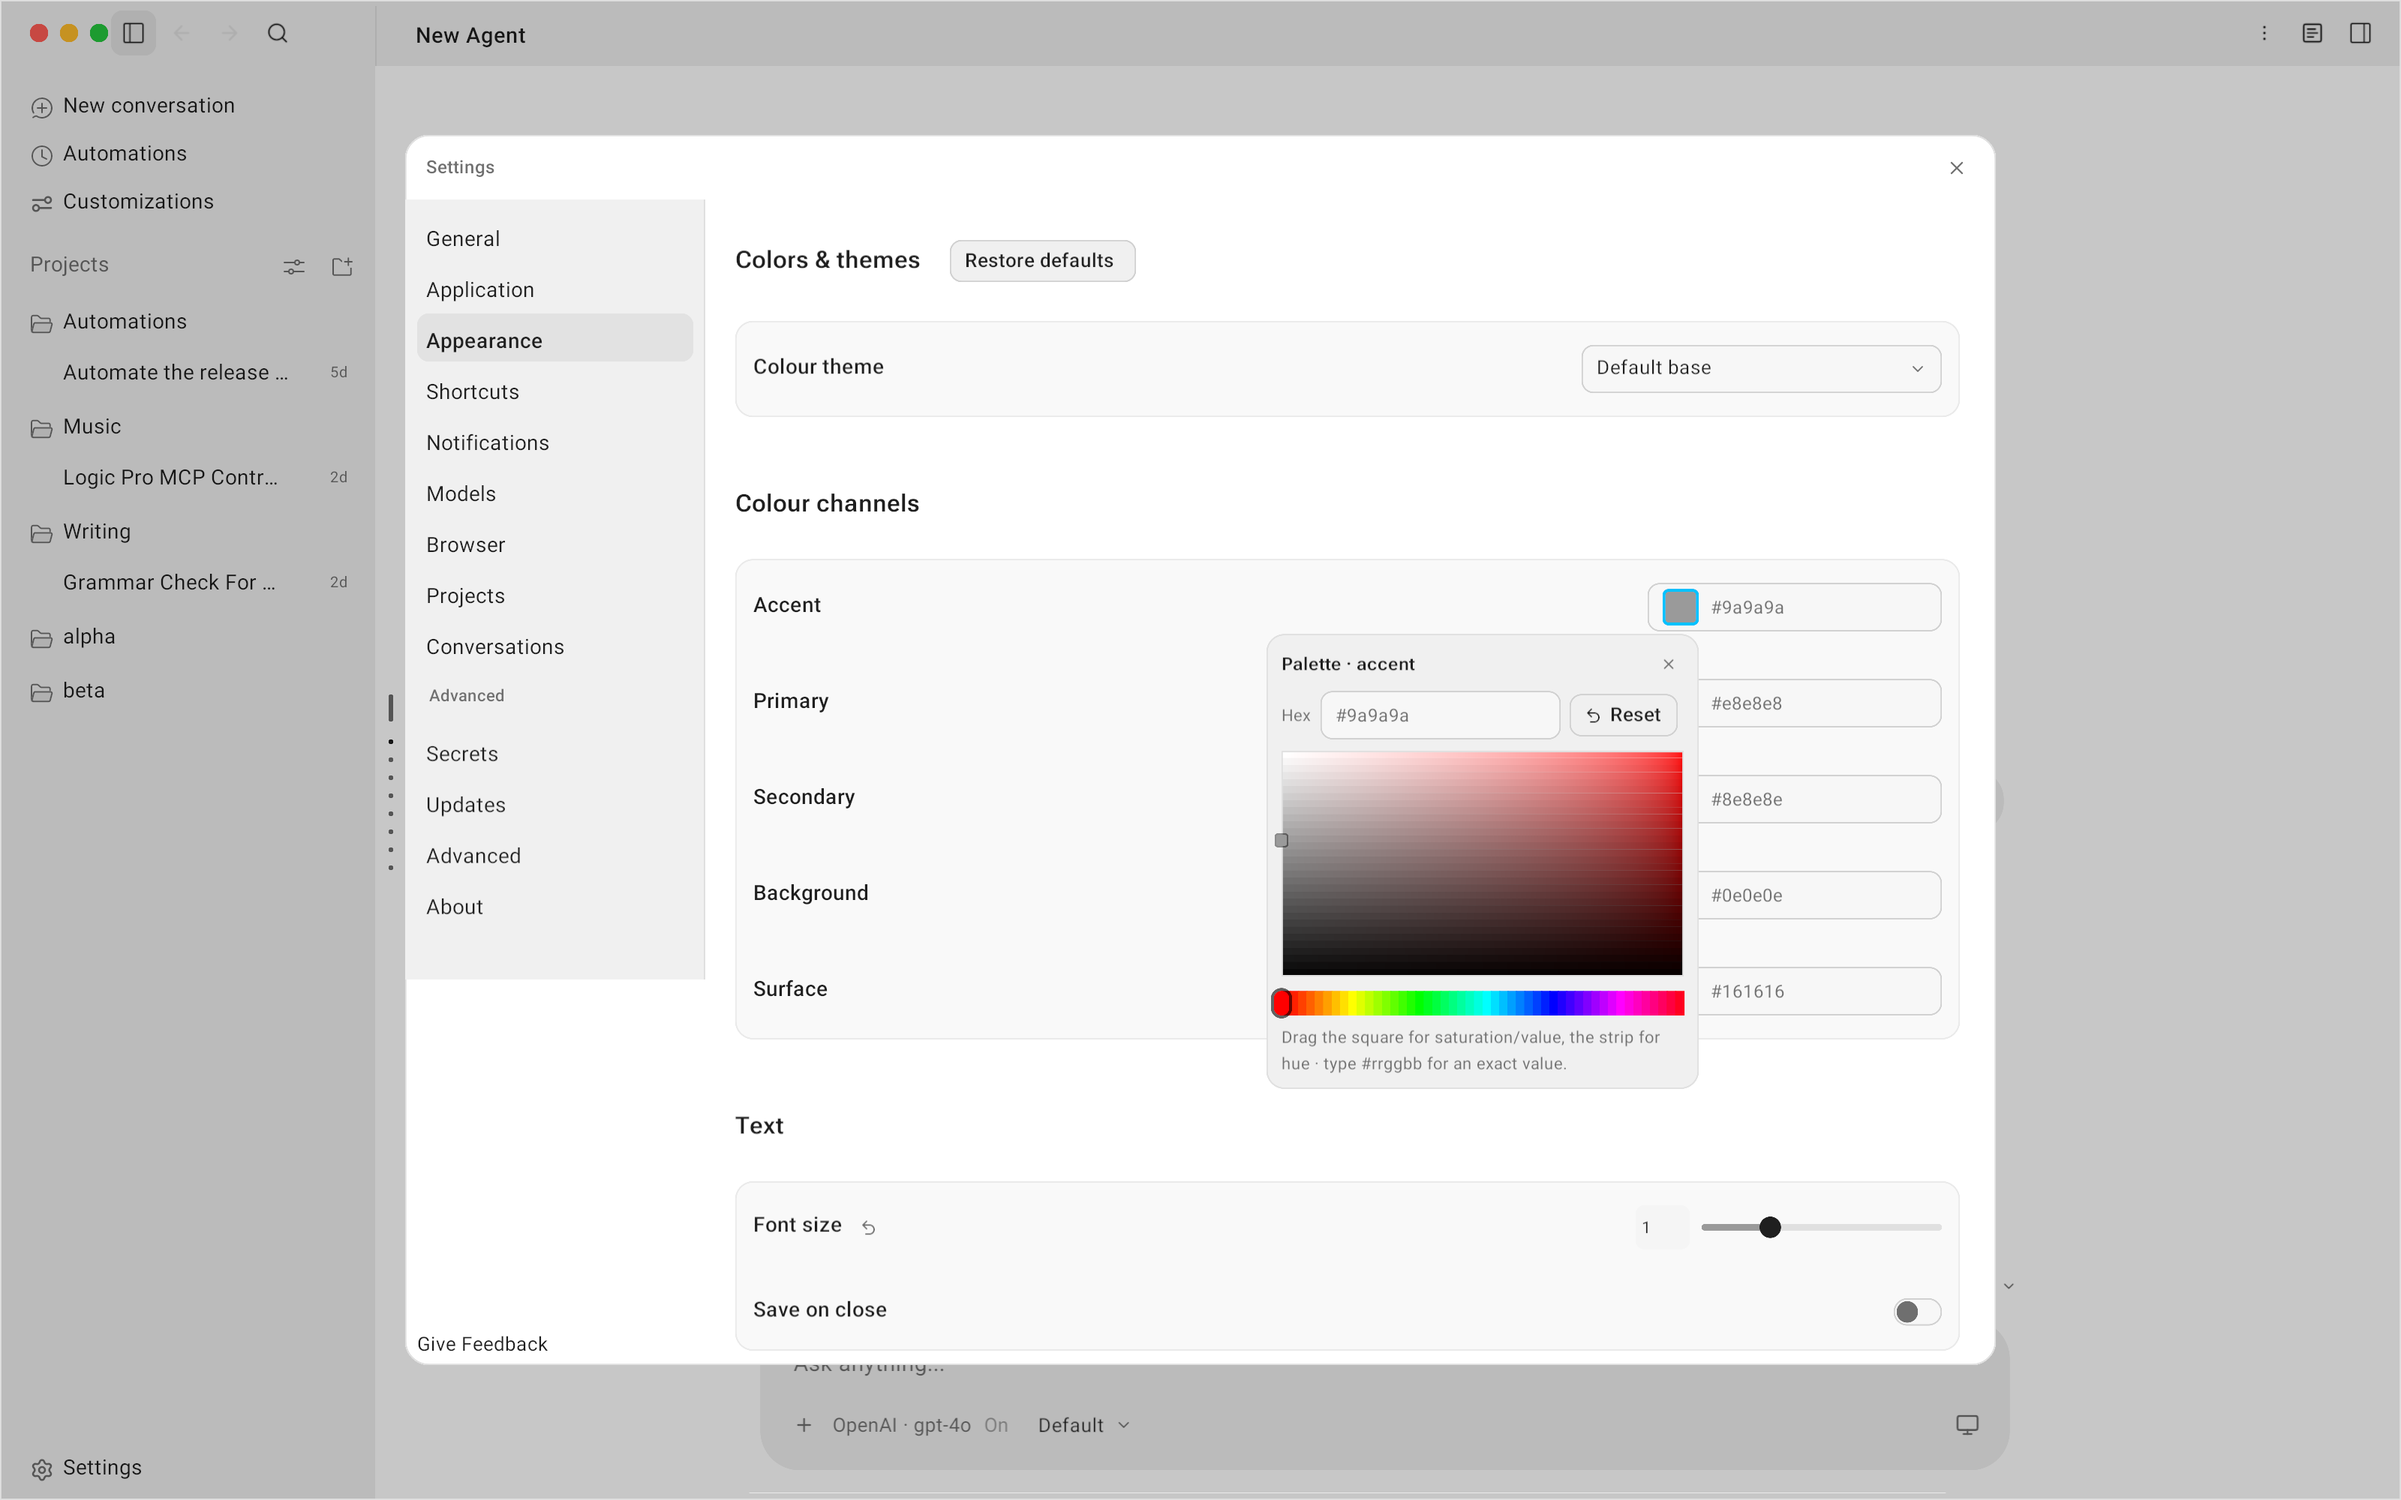
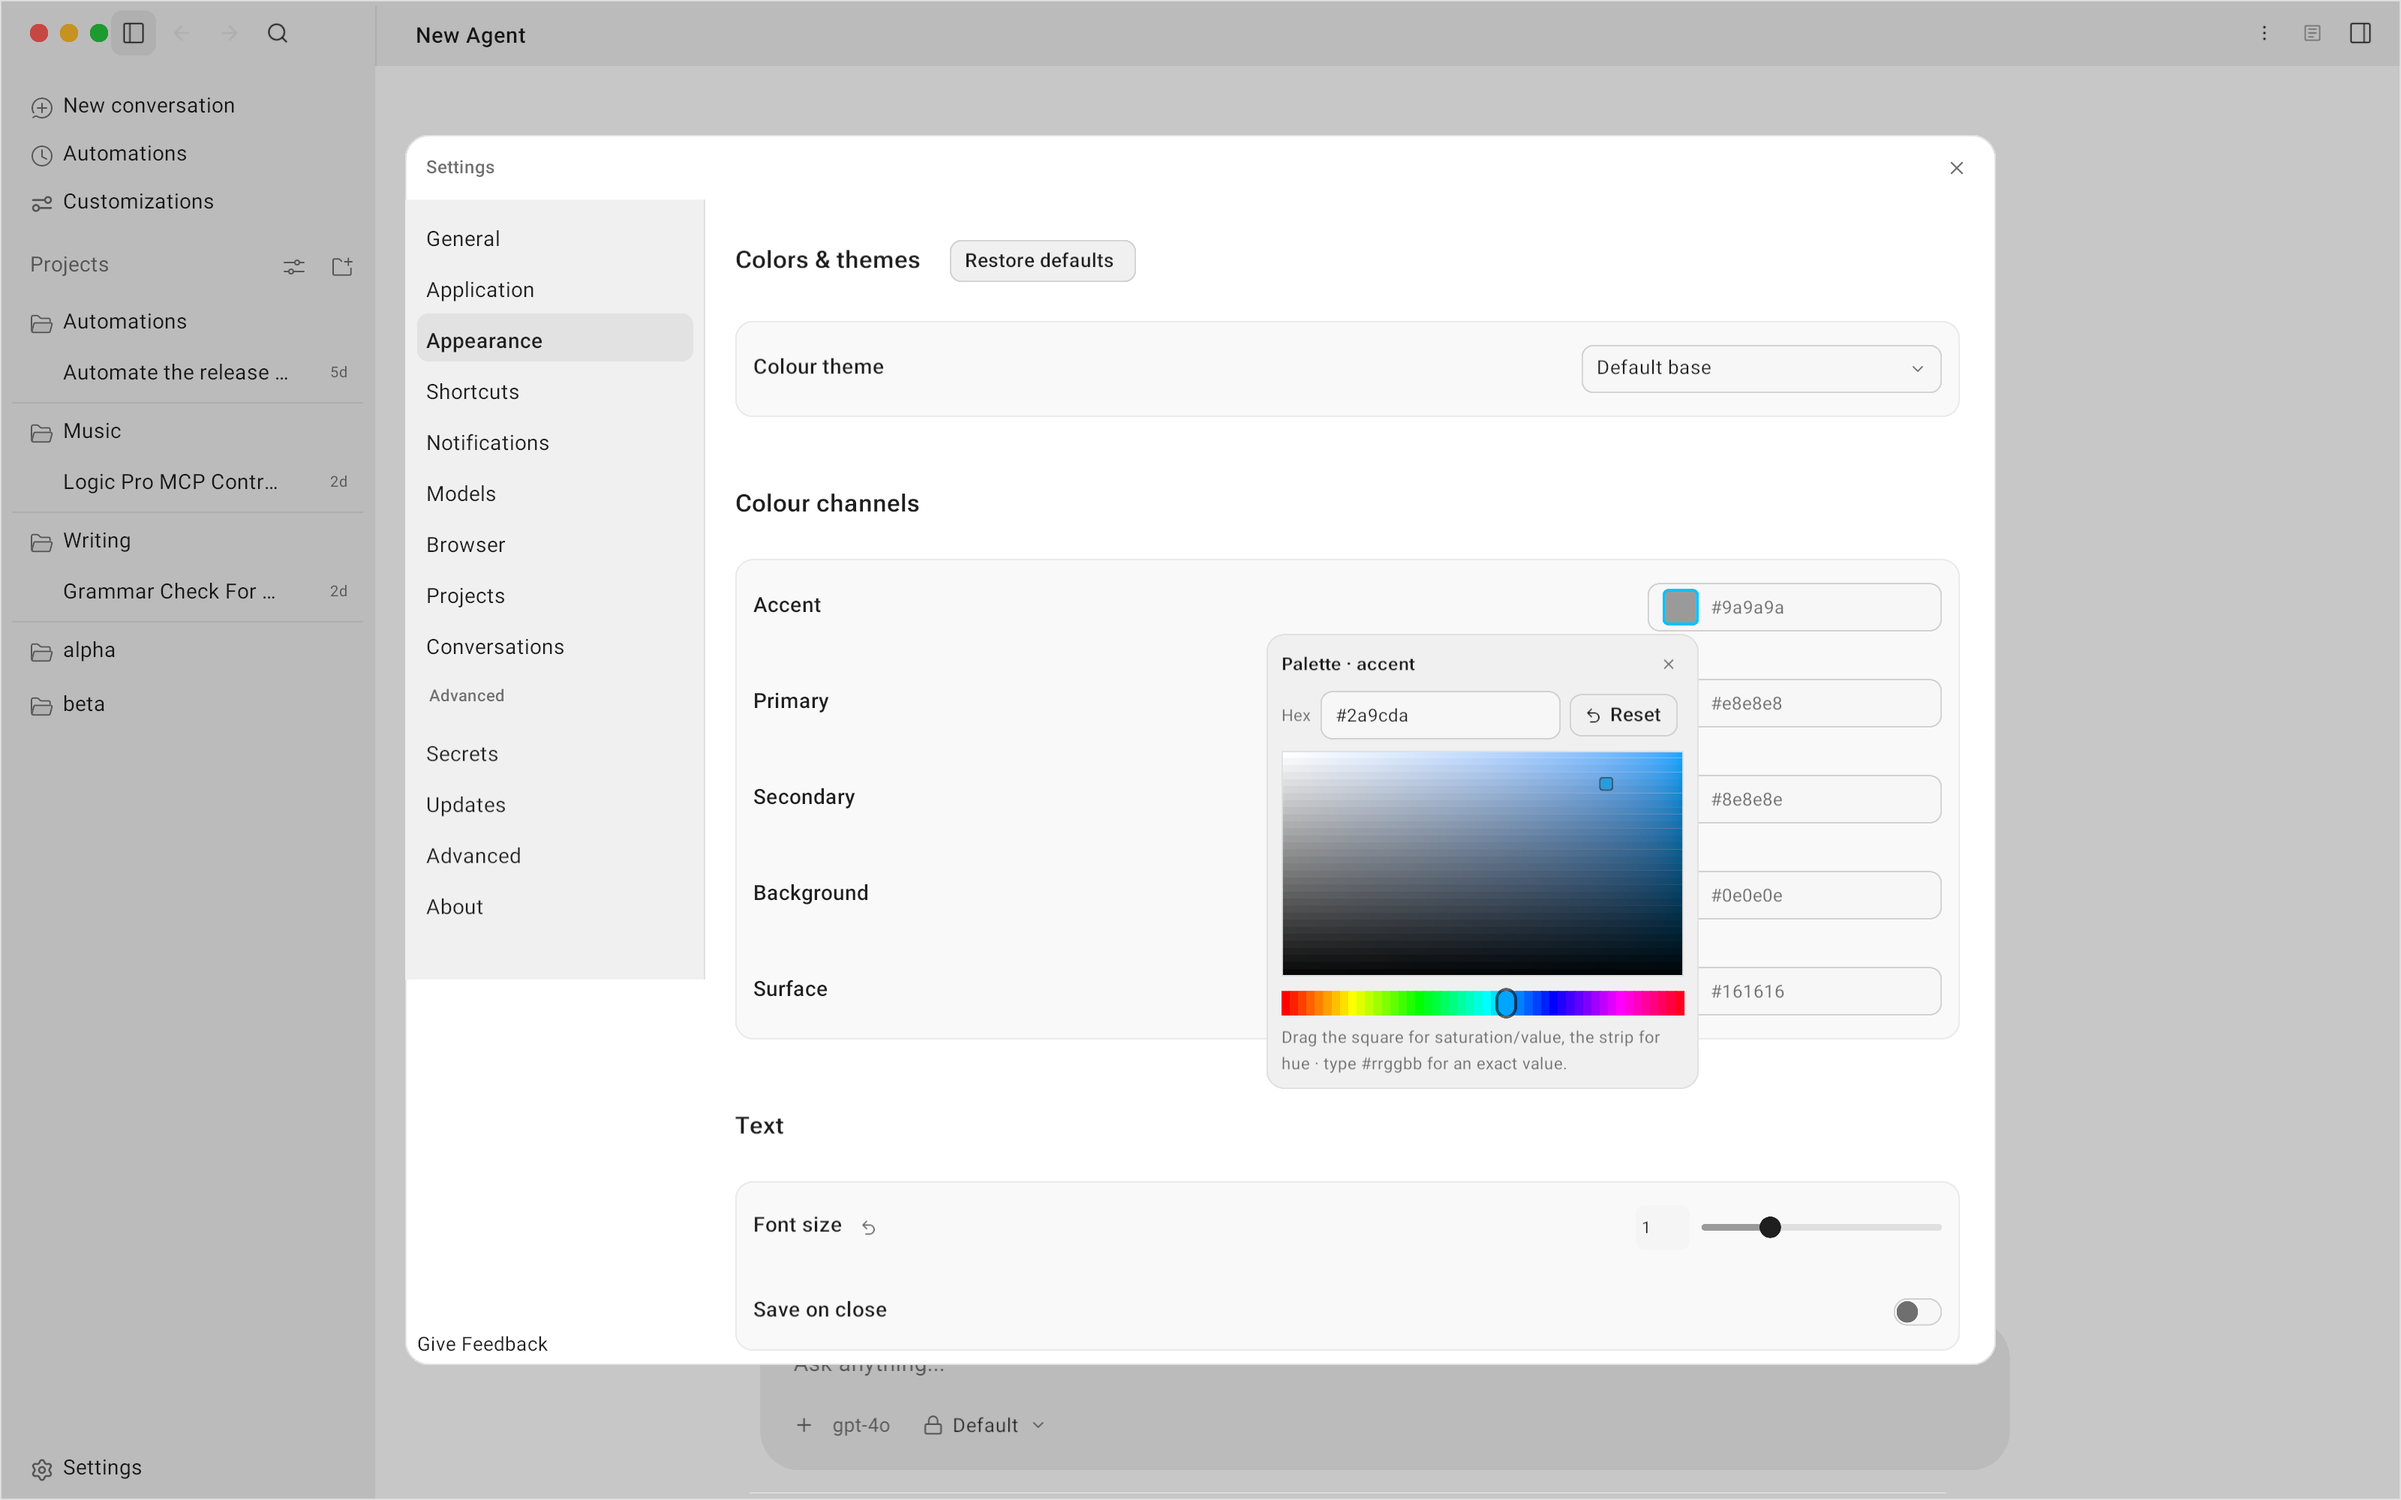
fix(settings): palette drag previews in memory and commits once on release
521 — HsvBarPicker now separates preview from commit: MouseDown/Move report an
in-memory preview (a SettingsAction that never writes settings or reloads
config), and MouseUp fires exactly one SetText commit. The hex field and the
picker knob show the live preview but the settings file is untouched until
release, so dragging for seconds cannot block on disk/theme reload.

522 — the continuous saturation/value square + hue strip stays the control
(no per-colour chips/bordered swatches); the live mid-drag render now shows the
preview colour.

523 — regression test: N drag steps produce previews, zero commits before
release, and one commit on MouseUp. Refreshed dark/light mid-drag palette
previews.

Tests: goble-ui 974 passed / 0 failed; goble-app 925 passed / 8 documented
baseline failures / 0 ignored.

Changed region(s): [[0.5625, 0.496, 0.7188, 0.651], [0.0, 0.31, 0.0938, 0.403], [0.3438, 0.93, 0.4375, 0.961]]

diff --git a/apps/desktop/src/ui/color_picker.rs b/apps/desktop/src/ui/color_picker.rs
@@ -384,6 +384,9 @@ impl Element for ColorWheel {
 pub struct HsvBarPicker {
     color: ColorU,
     on_change: ColorHandler,
+    on_preview: ColorHandler,
+    on_commit: ColorHandler,
+    last_color: Option<ColorU>,
     drag: Rc<RefCell<Option<ColorPickerDrag>>>,
     size: Option<Vector2F>,
     origin: Option<Point>,
@@ -396,6 +399,9 @@ impl HsvBarPicker {
         Self {
             color,
             on_change: None,
+            on_preview: None,
+            on_commit: None,
+            last_color: None,
             drag: Rc::new(RefCell::new(None)),
             size: None,
             origin: None,
@@ -412,6 +418,26 @@ impl HsvBarPicker {
     pub fn with_on_change<F: FnMut(ColorU) + 'static>(mut self, callback: F) -> Self {
         self.on_change = Some(Rc::new(RefCell::new(callback)));
         self
+    }
+
+    /// 521: an in-memory preview for each drag step.
+    pub fn with_on_preview<F: FnMut(ColorU) + 'static>(mut self, callback: F) -> Self {
+        self.on_preview = Some(Rc::new(RefCell::new(callback)));
+        self
+    }
+
+    /// The single commit fired on release.
+    pub fn with_on_commit<F: FnMut(ColorU) + 'static>(mut self, callback: F) -> Self {
+        self.on_commit = Some(Rc::new(RefCell::new(callback)));
+        self
+    }
+
+    fn report(&mut self, color: ColorU) {
+        self.last_color = Some(color);
+        let callback = self.on_preview.as_ref().or(self.on_change.as_ref());
+        if let Some(cb) = callback {
+            (cb.borrow_mut())(color);
+        }
     }
 
     fn hsv(&self) -> (f32, f32, f32) {
@@ -547,9 +573,7 @@ impl Element for HsvBarPicker {
                         *dragging.borrow_mut() = Some(ColorPickerDrag {
                             region: ColorRegion::Sv,
                         });
-                        if let Some(cb) = &self.on_change {
-                            (cb.borrow_mut())(self.color_at_sv(r, *position));
-                        }
+                        self.report(self.color_at_sv(r, *position));
                         return true;
                     }
                 }
@@ -558,9 +582,7 @@ impl Element for HsvBarPicker {
                         *dragging.borrow_mut() = Some(ColorPickerDrag {
                             region: ColorRegion::Hue,
                         });
-                        if let Some(cb) = &self.on_change {
-                            (cb.borrow_mut())(self.color_at_hue(r, *position));
-                        }
+                        self.report(self.color_at_hue(r, *position));
                         return true;
                     }
                 }
@@ -576,15 +598,22 @@ impl Element for HsvBarPicker {
                     ColorRegion::Ring => self.abs_sv().map(|r| self.color_at_sv(r, *position)),
                 };
                 if let Some(color) = color {
-                    if let Some(cb) = &self.on_change {
-                        (cb.borrow_mut())(color);
-                    }
+                    self.report(color);
                     true
                 } else {
                     false
                 }
             }
-            DispatchedEvent::MouseUp { .. } => dragging.borrow_mut().take().is_some(),
+            DispatchedEvent::MouseUp { .. } => {
+                if dragging.borrow_mut().take().is_some() {
+                    if let (Some(color), Some(cb)) = (self.last_color, self.on_commit.as_ref()) {
+                        (cb.borrow_mut())(color);
+                    }
+                    self.last_color = None;
+                    return true;
+                }
+                false
+            }
             _ => false,
         }
     }
@@ -607,6 +636,55 @@ mod tests {
 
     fn wheel_box(color: ColorU) -> Box<dyn Element> {
         ColorWheel::new(color).finish()
+    }
+
+    /// 521: every drag step previews in memory; exactly one commit fires on
+    /// release, so no settings write can happen per pixel.
+    #[test]
+    fn the_hsv_picker_previews_each_step_and_commits_once_on_release() {
+        use goble_ui::elements::EventContext;
+        use goble_ui::event::DispatchedEvent;
+        use goble_ui::test_util::render_element;
+        let app = AppContext::default();
+        let previews = Rc::new(RefCell::new(0usize));
+        let commits = Rc::new(RefCell::new(0usize));
+        let p = previews.clone();
+        let c = commits.clone();
+        let mut picker: Box<dyn Element> = Box::new(
+            HsvBarPicker::new(ColorU::new(128, 128, 128, 255))
+                .with_on_preview(move |_| *p.borrow_mut() += 1)
+                .with_on_commit(move |_| *c.borrow_mut() += 1),
+        );
+        let _ = render_element(&mut picker, vec2f(300.0, 220.0), &app);
+        let mut ctx = EventContext::default();
+        picker.dispatch_event(
+            &DispatchedEvent::MouseDown {
+                position: vec2f(40.0, 40.0),
+                button: 0,
+            },
+            &mut ctx,
+            &app,
+        );
+        for x in [60.0, 90.0, 120.0] {
+            picker.dispatch_event(
+                &DispatchedEvent::MouseMove {
+                    position: vec2f(x, 60.0),
+                },
+                &mut ctx,
+                &app,
+            );
+        }
+        assert!(*previews.borrow() >= 4, "each step previews in memory");
+        assert_eq!(*commits.borrow(), 0, "nothing is committed mid-drag");
+        picker.dispatch_event(
+            &DispatchedEvent::MouseUp {
+                position: vec2f(120.0, 60.0),
+                button: 0,
+            },
+            &mut ctx,
+            &app,
+        );
+        assert_eq!(*commits.borrow(), 1, "release commits once");
     }
 
     /// 362: the square and the hue strip are both live drag targets.

diff --git a/apps/desktop/src/ui/settings/color_palette.rs b/apps/desktop/src/ui/settings/color_palette.rs
@@ -1573,8 +1573,13 @@ fn palette_panel(
     let submit_actions = actions.clone();
     let focus_id = hex_focus_draft(channel);
     let focus_dispatch = actions.dispatch.clone();
+    let field_value = state
+        .color_preview
+        .borrow()
+        .and_then(|(target, color)| (target == channel).then(|| color.to_hex_string()))
+        .unwrap_or_else(|| value.to_string());
     let field = SettingsTextField::new()
-        .with_value(value.to_string())
+        .with_value(field_value)
         .with_placeholder(&channel_color(&state, channel_key(channel)).to_hex_string())
         .with_width(160.0)
         .with_focused(hex_focused)
@@ -1646,18 +1651,32 @@ fn palette_panel(
 
     // 362: the DSH control is the saturation/value square and the full-width
     // hue strip, not a preset grid. The hex field still writes exact values.
-    let picker_dispatch = actions.dispatch.clone();
     let picker_path = path.clone();
-    let picker =
-        crate::ui::color_picker::HsvBarPicker::new(channel_color(&state, channel_key(channel)))
-            .with_drag(Rc::clone(&state.color_picker_drag))
-            .with_on_change(move |color| {
-                (picker_dispatch.borrow_mut())(SettingsAction::SetText {
-                    path: picker_path.clone(),
-                    value: color.to_hex_string(),
-                });
-            })
-            .finish();
+    let preview_color = state
+        .color_preview
+        .borrow()
+        .and_then(|(target, color)| (target == channel).then_some(color))
+        .unwrap_or_else(|| channel_color(&state, channel_key(channel)));
+    let preview_dispatch = actions.dispatch.clone();
+    let preview_channel = channel;
+    let commit_dispatch = actions.dispatch.clone();
+    let commit_clear = actions.dispatch.clone();
+    let picker = crate::ui::color_picker::HsvBarPicker::new(preview_color)
+        .with_drag(Rc::clone(&state.color_picker_drag))
+        .with_on_preview(move |color| {
+            (preview_dispatch.borrow_mut())(SettingsAction::PreviewColor {
+                channel: preview_channel,
+                color,
+            });
+        })
+        .with_on_commit(move |color| {
+            (commit_dispatch.borrow_mut())(SettingsAction::SetText {
+                path: picker_path.clone(),
+                value: color.to_hex_string(),
+            });
+            (commit_clear.borrow_mut())(SettingsAction::ClearColorPreview);
+        })
+        .finish();
 
     let hint = Text::new("Drag the square for saturation/value, the strip for hue · type #rrggbb for an exact value.")
         .with_font_size(11.0)

diff --git a/apps/desktop/src/ui/settings/state.rs b/apps/desktop/src/ui/settings/state.rs
@@ -261,6 +261,9 @@ pub struct SettingsUiState {
     pub theme_select_menu: Rc<RefCell<bool>>,
     /// The HSV control's drag, app-owned so it survives the per-frame rebuild.
     pub color_picker_drag: Rc<RefCell<Option<crate::ui::color_picker::ColorPickerDrag>>>,
+    /// 521: the in-memory colour preview while a palette drag is live. It is
+    /// never written to disk; the commit happens on release.
+    pub color_preview: Rc<RefCell<Option<(usize, goble_ui::color::ColorU)>>>,
     /// The theme colour channel whose palette popover is open (`None` while no
     /// channel's popover is up).
     pub color_palette_menu: Rc<RefCell<Option<usize>>>,
@@ -359,6 +362,7 @@ impl Default for SettingsUiState {
             theme_select_open: false,
             theme_select_menu: Rc::new(RefCell::new(false)),
             color_picker_drag: Rc::new(RefCell::new(None)),
+            color_preview: Rc::new(RefCell::new(None)),
             color_palette_menu: Rc::new(RefCell::new(None)),
             select_open: Rc::new(RefCell::new(BTreeMap::new())),
             appearance_anchors: Rc::new(RefCell::new(AppearanceMenuAnchors::default())),
@@ -679,6 +683,12 @@ pub enum SettingsAction {
     },
     /// Remove a custom chord, restoring the built-in binding.
     ShortcutDelete(String),
+    /// 521: update the live palette preview without touching disk.
+    PreviewColor {
+        channel: usize,
+        color: goble_ui::color::ColorU,
+    },
+    ClearColorPreview,
     /// Re-run integration detection (Antigravity/CLI adapters).
     RefreshIntegrations,
     /// Start an integration's own login command (`agy login`), then refresh.

diff --git a/apps/desktop/src/actions/settings_actions.rs b/apps/desktop/src/actions/settings_actions.rs
@@ -235,6 +235,13 @@ fn handle(
                 ),
             }
         }
+        SettingsAction::ClearColorPreview => {
+            *state.settings.color_preview.borrow_mut() = None;
+        }
+        SettingsAction::PreviewColor { channel, color } => {
+            // 521: live preview only; no settings write and no config reload.
+            *state.settings.color_preview.borrow_mut() = Some((channel, color));
+        }
         SettingsAction::ShortcutDelete(id) => {
             let label = id.trim_start_matches("shortcut.");
             state.settings.shortcuts.remove(label);

diff --git a/apps/desktop/examples/shell_settings_preview.rs b/apps/desktop/examples/shell_settings_preview.rs
@@ -928,6 +928,8 @@ fn main() -> anyhow::Result<()> {
                     // accent channel so the square and the anchored grid are
                     // both in the shot.
                     *s.settings.color_palette_menu.borrow_mut() = Some(0);
+                    *s.settings.color_preview.borrow_mut() =
+                        Some((0, goble_ui::color::ColorU::new(42, 156, 218, 255)));
                 }
                 if name == "overview-popover" {
                     s.right_sidebar_open = true;
